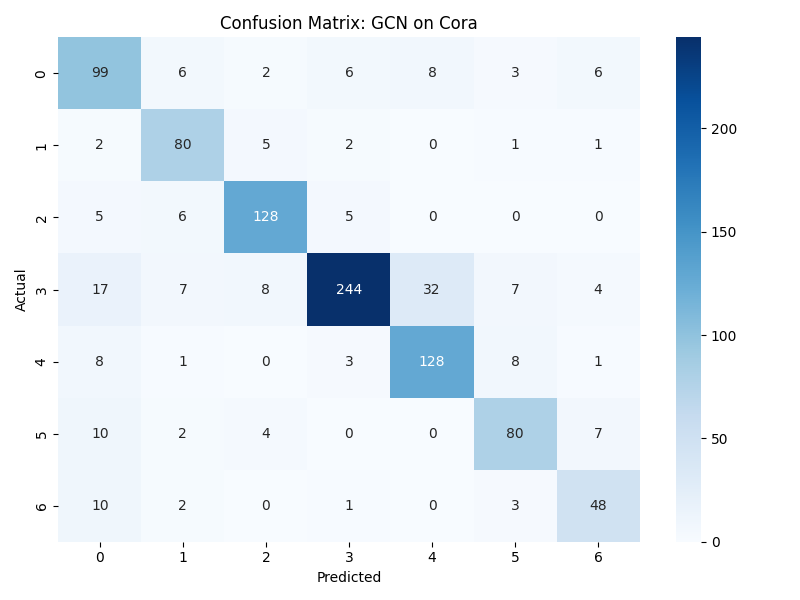
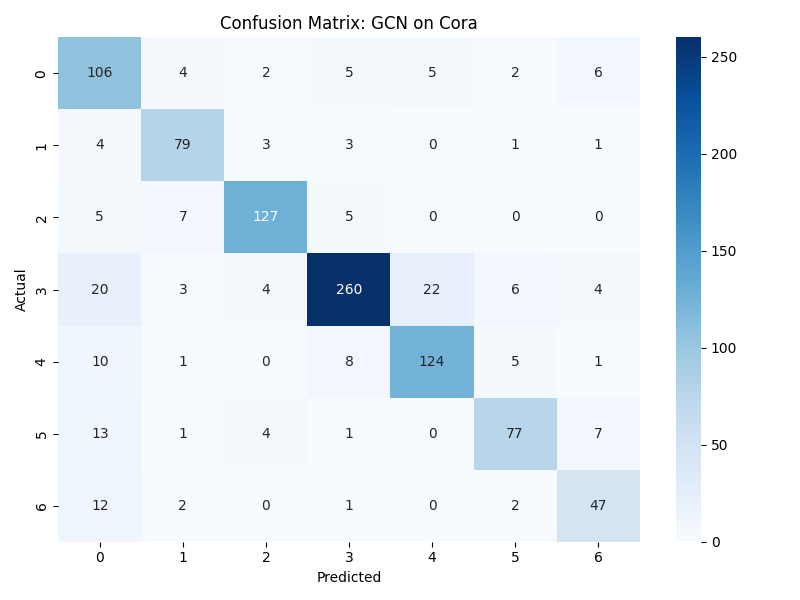
GCN

diff --git a/train.py b/train.py
@@ -6,6 +6,8 @@ import seaborn as sns
 import matplotlib.pyplot as plt
 from sklearn.metrics import f1_score, confusion_matrix
 from torch_geometric.datasets import Planetoid
+import time
+import platform
 
 # Models
 from gat import GAT
@@ -192,6 +194,14 @@ def main(dataset_name: str = 'Cora', model_name: str = 'ChebNet', seed: int = 42
     set_seed(seed)
     device = torch.device('cuda' if torch.cuda.is_available() else 'cpu')
 
+    start_time = time.time()
+    print("System Information:")
+    print("Platform:", platform.platform())
+    print("PyTorch version:", torch.__version__)
+    print("CUDA available:", torch.cuda.is_available())
+    print("Device:", device)
+
+
     # Load dataset and config
     if dataset_name == 'Cora':
         config = get_cora_config(model_name)
@@ -274,6 +284,15 @@ def main(dataset_name: str = 'Cora', model_name: str = 'ChebNet', seed: int = 42
     plot_loss(epoch_metrics['Loss'], model_name, dataset_name)
     plot_confusion_matrix(best_stats['True'], best_stats['Pred'], model_name, dataset_name)
 
+    total_time = time.time() - start_time
+    avg_epoch_time = total_time / (best_epoch + 1)
+
+    print(f"\n--- Runtime Statistics ---")
+    print(f"Total runtime (s): {total_time:.2f}")
+    print(f"Average time per epoch (s): {avg_epoch_time:.4f}")
+    print(f"Total training epochs (actual): {best_epoch + 1}")
+    print(f"Estimated GPU hours used: {total_time / 3600:.4f} hours")
+
     # Final Summary
     print("\n--- Final Results ---")
     print(f"Model: {model_name} | Dataset: {dataset_name}")
@@ -285,5 +304,5 @@ def main(dataset_name: str = 'Cora', model_name: str = 'ChebNet', seed: int = 42
 
 if __name__ == '__main__':
     dataset_name = 'Cora'
-    model_name = 'SemiEmb'  # Change to 'GAT','GCN', 'GraphSAGE', 'GatedGCN', 'ChebNet', 'SemiEmb', 'GraphSAGE-Mean', 'GraphSAGE-Pooling'
+    model_name = 'GCN'  # Change to 'GAT','GCN', 'GraphSAGE', 'GatedGCN', 'ChebNet', 'SemiEmb', 'GraphSAGE-Mean', 'GraphSAGE-Pooling'
     main(dataset_name=dataset_name, model_name=model_name)
